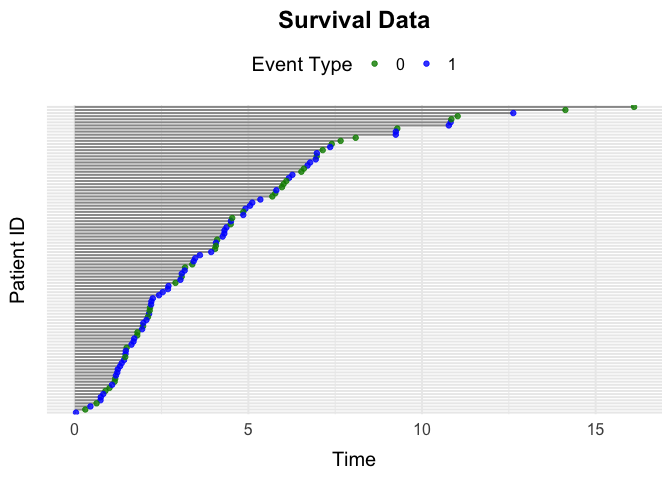
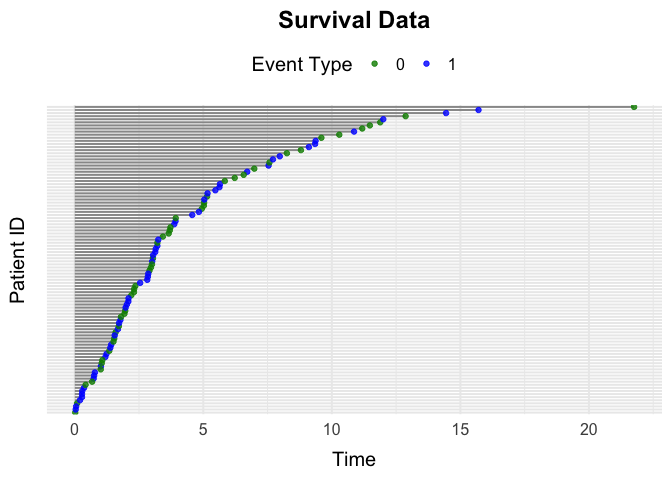
Changes in readme file

diff --git a/README.md b/README.md
@@ -22,7 +22,10 @@ pak::pak("miclukacova/simevent")
 ## Example 1: simEventData
 
 The underlying function is called `simEventData`. One can specify
-various arguments
+various arguments, as for example the `N` and `beta` argument. The
+`N`argument lets the user specify number of individuals in the
+simulation. The `beta` argument lets the user specify the effects of
+processes and covariates on the intensities of the processes.
 
 ``` r
 library(simevent)
@@ -52,12 +55,12 @@ head(data)
 #> Key: <ID>
 #>       ID      Time Delta       L0     L    A0     A
 #>    <int>     <num> <num>    <num> <num> <int> <num>
-#> 1:     1 1.0487683     3 69.90414     0     0     0
-#> 2:     1 1.0995389     1 69.90414     1     0     0
-#> 3:     2 0.3579570     3 61.37030     0     0     0
-#> 4:     2 1.1411689     1 61.37030     1     0     0
-#> 5:     3 0.5415522     1 62.38574     0     0     0
-#> 6:     4 1.1220836     0 32.82778     0     1     0
+#> 1:     1 1.8230751     0 33.69882     0     1     0
+#> 2:     2 1.7713741     1 54.99243     0     0     0
+#> 3:     3 0.7899128     3 39.05366     0     1     0
+#> 4:     3 1.4684341     0 39.05366     1     1     0
+#> 5:     4 2.3548280     3 62.78199     0     1     0
+#> 6:     4 4.7450346     0 62.78199     1     1     0
 ```
 
 One can visualize the data by
@@ -80,14 +83,117 @@ plotEventData(data, title = "Survival Data")
 
 <img src="man/figures/README-unnamed-chunk-5-1.png" width="100%" />
 
+One can again specify the effects of $A_0$ and $L_0$ on the risk of
+death and censoring by the `beta` argument.
+
+``` r
+# No effect of L0 and A0 on censoring process
+beta_C <- c(0,0)
+# Effect of L0 and A0 on death process
+beta_D <- c(1,-1)
+
+beta <- cbind(beta_C, beta_D)
+```
+
+And specify the parameters of the Weibull intensity for the censoring
+and death process.
+
+``` r
+eta <- c(0.2, 0.2)
+nu <- c(1.05, 1.05)
+```
+
+We now call the function and visualize the data
+
+``` r
+data <- simSurvData(100, beta = beta, eta = eta, nu = nu)
+plotEventData(data, title = "Survival Data")
+```
+
+<img src="man/figures/README-unnamed-chunk-8-1.png" width="100%" />
+
 ## Example 3: Competing Risk Data
 
 You can simulate data from a competing risk setting with the function
-`simCRdata`.
+`simCRdata`. The arguments `beta`, `eta`, `nu`, work in a similar maner
+as above.
 
 ``` r
 data <- simCRdata(100)
 plotEventData(data, title = "Competing Risk Data")
 ```
 
-<img src="man/figures/README-unnamed-chunk-6-1.png" width="100%" />
+<img src="man/figures/README-unnamed-chunk-9-1.png" width="100%" />
+
+## Example 4: Type 2 Diabetes
+
+The function `simT2D` simulates health care data from a setting where
+patients can experience $3$ different events: Censoring (0), Death (1)
+and Type-2-Diabetes (2). The various arguments allow for the different
+scenarios, and you can read about them on the help page
+
+``` r
+?simT2D
+```
+
+Below is a function call to `simT2D`
+
+``` r
+data <- simT2D(N = 100,
+               sex = FALSE, 
+               cens = 1,
+               eta = c(0.1,0.3,0.1,0.1), 
+               nu = c(1.1,1.3,1.1,1.1),
+               beta_L0_L = 1, 
+               beta_A0_L = -1.1, 
+               beta_L_D = 1, 
+               beta_L0_D = 0)
+
+plotEventData(data, title = "T2D data")
+```
+
+<img src="man/figures/README-unnamed-chunk-11-1.png" width="100%" />
+
+## Example 5: Unobserved Covariate Setting
+
+The `simConfounding` function was created to simulate data from a
+setting where we have an unobserved confounding process. You can read
+about the function on the help page
+
+``` r
+?simConfounding
+```
+
+One can simulate data from the default setting by the function call
+
+``` r
+data <- simConfounding(100)
+```
+
+And one can simulate from user specified scenarios by the function call
+
+``` r
+data <- simConfounding(N = 100,
+                       beta_L_A = 1,
+                       beta_L_D = 1,
+                       beta_A_D = -1,
+                       beta_A_L = -0.5,
+                       beta_L0_A = 1,
+                       eta = rep(0.1, 4),
+                       nu = rep(1.1, 4),
+                       followup = 5,
+                       cens = 1,
+                       op = 1)
+```
+
+For example the function call above simulates from a setting with the
+operation/treatment event (op = 1), where there is a censoring process
+(cens = 1), and where after 5 time units everybody is censored (followup
+= 5). We can again visulize data by the function call to
+`plotEventData`.
+
+``` r
+plotEventData(data, title = "Confounding setting")
+```
+
+<img src="man/figures/README-unnamed-chunk-15-1.png" width="100%" />
